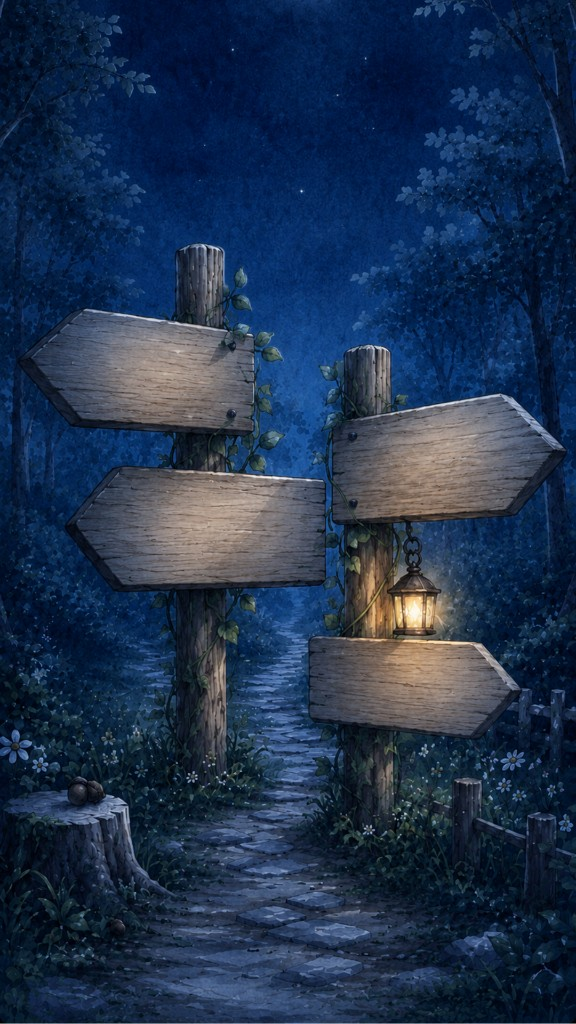
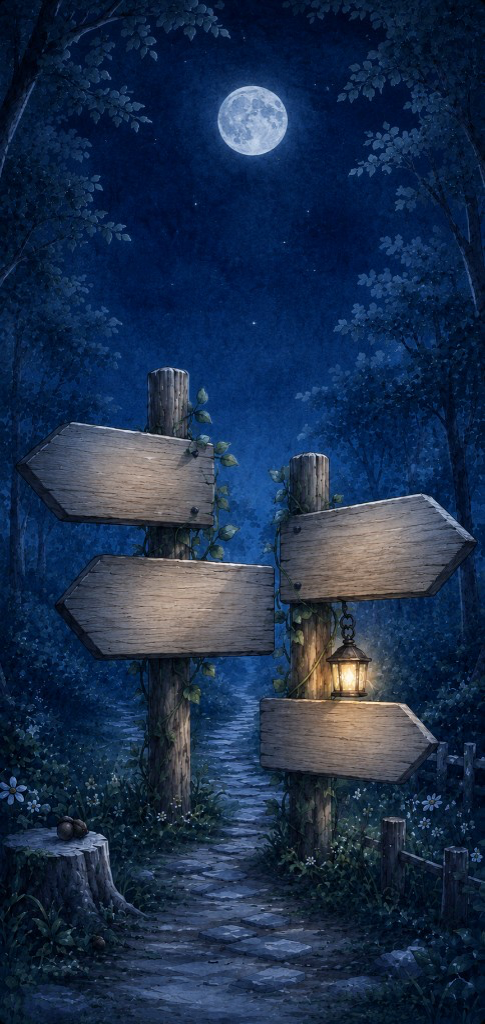
トップ夜背景をサイズ合わせ済みの差し替え画像に更新する。

diff --git a/src/lib/home/homeForestSignAssets.ts b/src/lib/home/homeForestSignAssets.ts
@@ -4,7 +4,7 @@ export const HOME_FOREST_SIGN_MOBILE_BG_DAY_SRC =
 
 /** トップ：森の案内板（スマホ縦長・夜） */
 export const HOME_FOREST_SIGN_MOBILE_BG_NIGHT_SRC =
-  "/images/ljd/top/top_forest_sign_mobile_night.png?v=1" as const;
+  "/images/ljd/top/top_forest_sign_mobile_night.png?v=2" as const;
 
 /** トップ：森の案内板（PC横長・昼） */
 export const HOME_FOREST_SIGN_DESKTOP_BG_DAY_SRC =
